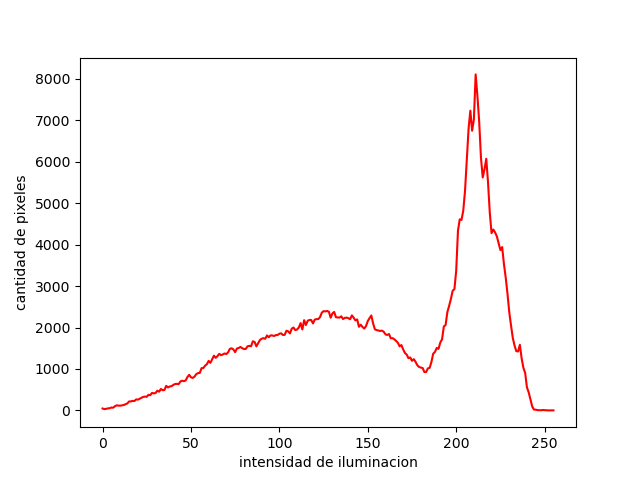
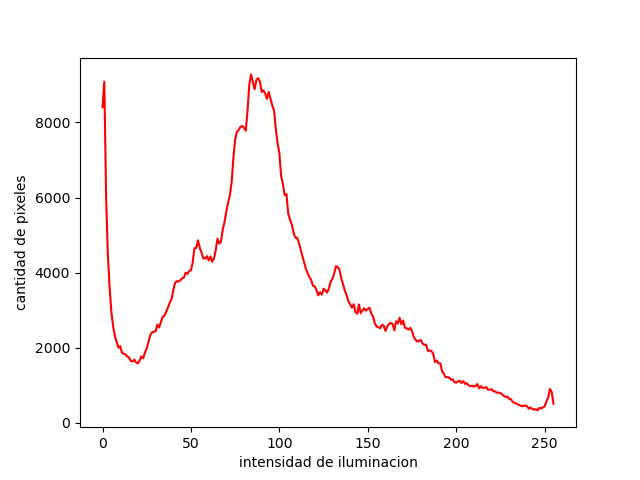
División y multiplicación

diff --git a/examen 1/grafi/diviescala.py b/examen 1/grafi/diviescala.py
@@ -1,0 +1,36 @@
+import cv2
+import numpy as np
+from matplotlib import pyplot as plt
+img1=cv2.imread('uploads/original.jpg',0)
+img2=cv2.imread('uploads/suma.jpg',0)
+img3=cv2.imread('uploads/original.jpg',0)
+f,c=img1.shape
+for i in range(f):
+    for j in range(c):
+        img3[i][j]=(int(img1[i][j])/int(img2[i][j]))*100
+            
+maximo=np.max(img3)
+minimo=np.min(img3)
+for i in range(f):
+    for j in range(c):
+        intensidad=(int(img3[i][j])-minimo)*(255/(maximo-minimo))
+        if(intensidad<0):
+            img3[i][j]=0
+        elif(intensidad>255):
+            img3[i][j]=255
+        else:
+            img3[i][j]=intensidad
+
+hist = cv2.calcHist([img3], [0], None, [256], [0, 256])
+
+
+for i in range(f):
+    for j in range(c):
+        if(img3[i][j]<180):
+            img3[i][j]=0
+        else:
+            img3[i][j]=255
+            
+        
+cv2.imwrite('uploads/resultado.jpg',img3)
+

diff --git a/examen 1/grafi/mult1.py b/examen 1/grafi/mult1.py
@@ -1,0 +1,33 @@
+import cv2
+import numpy as np
+from matplotlib import pyplot as plt
+
+img1=cv2.imread('uploads/original.jpg')
+img1=cv2.resize(img1,(400,400))
+f,c,color=img1.shape
+constante=5
+for i in range(f):
+    for j in range(c):
+        r1=int(img1[i][j][0])*constante
+        r2=int(img1[i][j][1])*constante
+        r3=int(img1[i][j][2])*constante
+        if(r1<0):
+            img1[i][j][0]=0
+        elif(r1>255):
+            img1[i][j][0]=255
+        else:
+            img1[i][j][0]=r1
+        if(r2<0):
+            img1[i][j][1]=0
+        elif(r2>255):
+            img1[i][j][1]=255
+        else:
+            img1[i][j][1]=r2
+        if(r3<0):
+            img1[i][j][2]=0   
+        elif(r3>255):
+            img1[i][j][2]=255
+        else:
+            img1[i][j][2]=r3
+                  
+cv2.imwrite('uploads/resultado.jpg',img1)

diff --git a/examen 1/grafi/index.php b/examen 1/grafi/index.php
@@ -53,6 +53,12 @@
         <button class="btn btn-outline-success" type="button" onclick="proceso(9)">Suma</button>
         <button class="btn btn-outline-success" type="button" onclick="proceso(10)">Suma Color</button>
         <button class="btn btn-outline-success" type="button" onclick="proceso(11)">Resta</button>
+        <button class="btn btn-outline-success" type="button" onclick="proceso(12)">Multiplicación</button>
+         <button class="btn btn-outline-success" type="button" onclick="proceso(13)">División y escalamiento</button>
+         <button class="btn btn-outline-success" type="button" onclick="proceso(14)">División para detectar movimiento</button>
+         <button class="btn btn-outline-success" type="button" onclick="proceso(15)">Blending</button>
+         
+
 
 		</form>
 	</nav>

diff --git a/examen 1/grafi/divimovi.py b/examen 1/grafi/divimovi.py
@@ -1,0 +1,21 @@
+import cv2
+from matplotlib import pyplot as plt
+import math as mt
+import numpy as np
+
+img = cv2.imread('uploads/original.jpg',0)
+img2 = cv2.imread('uploads/suma.jpg',0)
+img2=cv2.resize(img2,(img.shape[1],img.shape[0]))
+
+#EJERCICIO 3
+for i in range(img2.shape[0]):
+    for j in range(img2.shape[1]):
+        img[i,j]=int(img[i,j])/int(img2[i,j])*30
+mi=np.min(img)
+ma=np.max(img)
+
+for i in range(img2.shape[0]):
+    for j in range(img2.shape[1]):
+        img[i,j]=(int(img[i,j])-mi)*(255-0)/(ma-mi)+0
+
+cv2.imwrite('uploads/resultado.jpg',img)

diff --git a/examen 1/grafi/blending.py b/examen 1/grafi/blending.py
@@ -1,0 +1,22 @@
+import cv2
+from matplotlib import pyplot as plt
+import math as mt
+import numpy as np
+
+img = cv2.imread('uploads/original.jpg')
+img2 = cv2.imread('uploads/suma.jpg')
+img2=cv2.resize(img2,(img.shape[1],img.shape[0]))
+
+#THRESHOLDING
+"""
+v_f=np.vectorize(lambda x:0 if x<170 else 255)
+cv2.imshow("out.jpg",np.uint8(v_f(img)))
+"""
+#EJERCICIO 4
+x=0.5
+for i in range(img.shape[0]):
+    for j in range(img.shape[1]):
+        print(img[i][j])
+        img[i,j]=x*img[i,j]+(1-x)*img2[i,j]
+
+cv2.imwrite('uploads/resultado.jpg',img)

diff --git a/examen 1/grafi/procesar.php b/examen 1/grafi/procesar.php
@@ -44,3 +44,21 @@
 		$command = escapeshellcmd('resta.py');
 		$output = Shell_exec($command);
 	}
+
+	if($_POST['1']=='12'){
+		$command = escapeshellcmd('mult1.py');
+		$output = Shell_exec($command);
+	}
+	if($_POST['1']=='13'){
+		$command = escapeshellcmd('diviescala.py');
+		$output = Shell_exec($command);
+	}
+
+	if($_POST['1']=='14'){
+		$command = escapeshellcmd('divimovi.py');
+		$output = Shell_exec($command);
+	}
+	if($_POST['1']=='15'){
+		$command = escapeshellcmd('blending.py');
+		$output = Shell_exec($command);
+	}
